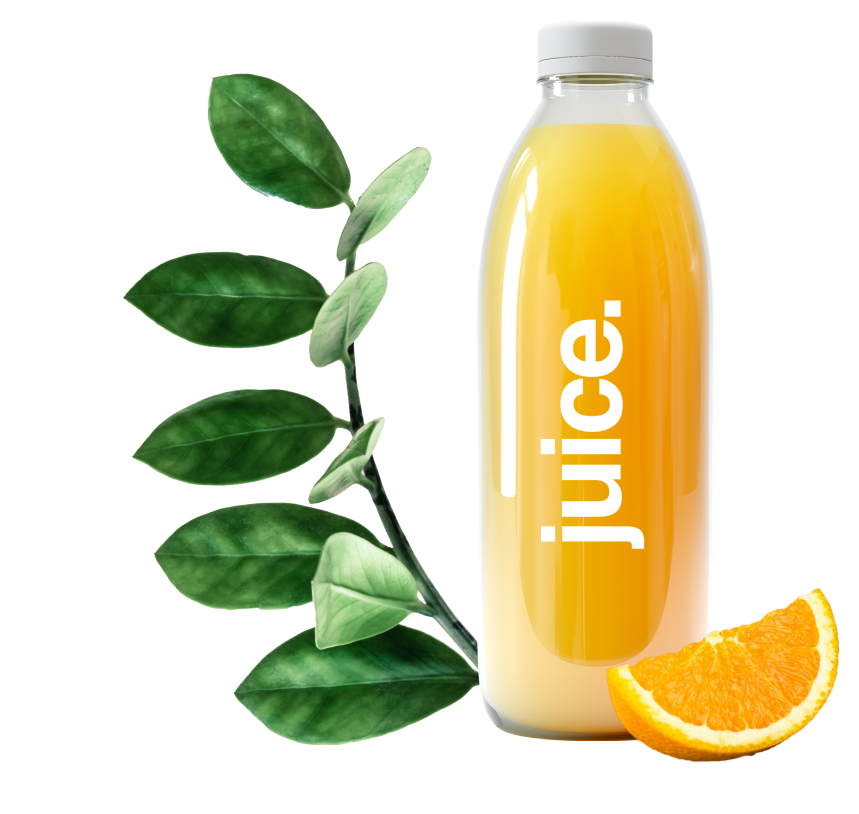
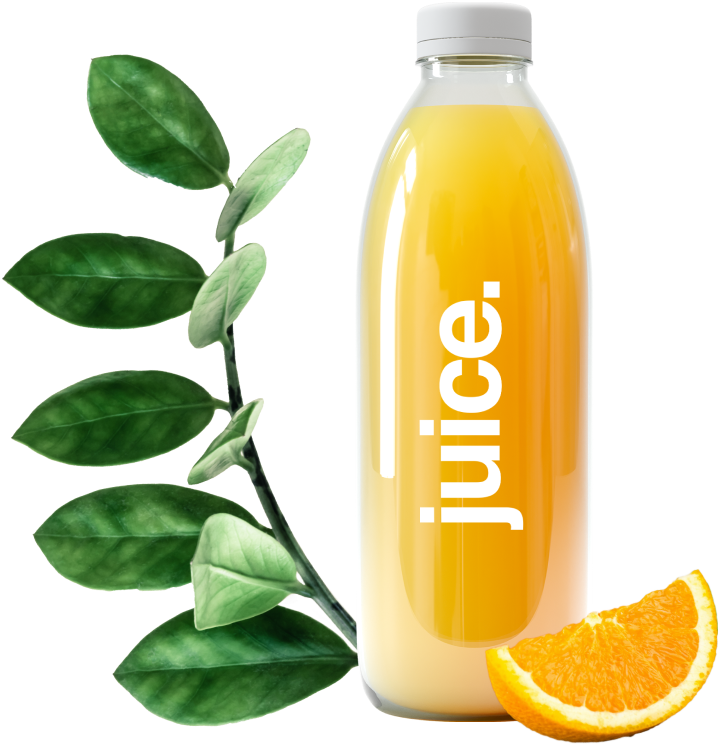
responsive view done

diff --git a/product.css b/product.css
@@ -1,18 +1,29 @@
+body {
+  overflow: visible;
+}
+
 main {
   width: 80%;
   margin: auto;
+  flex-wrap: wrap;
+  align-items: center;
+  justify-content: center;
+  min-height: 90vh;
+  overflow: visible;
 }
 
 .text-content {
   display: flex;
   flex-direction: column;
   justify-content: center;
+  flex: 1 1 30rem;
 }
 
 .text-content h1 {
   color: #eca64d;
   font-size: 4rem;
   font-weight: 500;
+  white-space: nowrap;
 }
 
 .text-content .description {
@@ -30,8 +41,8 @@ main {
 .btn-container {
   padding-top: 5rem;
   display: flex;
-  width: 25%;
-  justify-content: space-between;
+  width: 35%;
+  justify-content: space-around;
   align-items: center;
 }
 
@@ -49,16 +60,26 @@ main {
 }
 
 .img-container {
+  flex: 1 1 30rem;
   display: flex;
   justify-content: center;
   align-items: center;
+  text-align: center;
+  padding: 4rem;
 }
 
 .btn-container .back {
   white-space: nowrap;
 }
 
+.btn-container .back-img {
+  padding: 1rem;
+  min-width: 35%;
+  height: auto;
+}
+
 .product {
+  width: 100%;
   animation: product-landing 0.8s ease-in-out;
 }
 
@@ -70,5 +91,42 @@ main {
   to {
     opacity: 1;
     transform: translateY(0);
+  }
+}
+
+@media (max-width: 1199px) {
+  .text-content {
+    padding: 4rem 0;
+    align-items: center;
+  }
+
+  .text-content p {
+    text-align: center;
+  }
+}
+
+@media (max-width: 800px) {
+  .text-content h1 {
+    font-size: 3rem;
+  }
+
+  .text-content .description {
+    font-size: 1.2rem;
+  }
+
+  .text-content .contains {
+    font-size: 1rem;
+  }
+}
+
+@media (max-width: 700px) {
+  .btn-container {
+    width: 40%;
+  }
+}
+
+@media (max-width: 550px) {
+  .text-content h1 {
+    font-size: 2.5rem;
   }
 }

diff --git a/style.css b/style.css
@@ -101,7 +101,7 @@ main {
   padding: 0.2rem 1rem;
   border: 2px solid white;
   white-space: nowrap;
-  margin-left: 2rem;
+  margin: 0 1rem;
 }
 
 .button-section #red {
@@ -119,12 +119,92 @@ main {
 
 @media (max-width: 1680px) {
   .leaf {
-    z-index: 0;
+    width: 60%;
+    right: -7%;
   }
-  .container {
-    z-index: -2;
-  }
-  .button-section {
+  nav ul {
     z-index: 1;
+  }
+}
+
+@media (max-width: 930px) {
+  .container h1 {
+    font-size: 10rem;
+  }
+}
+
+@media (max-width: 740px) {
+  .container h1 {
+    font-size: 8rem;
+    padding: 1rem;
+  }
+
+  header {
+    margin-bottom: 2rem;
+  }
+
+  .container h2 {
+    font-size: 2rem;
+  }
+
+  .container a {
+    font-size: 1rem;
+  }
+}
+
+@media (max-width: 650px) {
+  .container h2 {
+    font-size: 1.8rem;
+  }
+
+  .container a {
+    font-size: 0.8rem;
+  }
+}
+
+@media (max-width: 580px) {
+  .button-section {
+    height: 20vh;
+    flex-direction: column;
+    align-items: center;
+    justify-content: space-around;
+  }
+
+  .button-section #red {
+    padding: 0.2rem 1.75rem;
+  }
+
+  .button-section #green {
+    padding: 0.2rem 1.2rem;
+  }
+
+  .menu {
+    width: 80%;
+  }
+
+  .leaf {
+    visibility: hidden;
+  }
+}
+
+@media (max-width: 500px) {
+  .container h1 {
+    font-size: 6rem;
+  }
+
+  .container h2 {
+    font-size: 1.5rem;
+  }
+}
+
+@media (max-width: 450px) {
+  html {
+    font-size: 90%;
+  }
+}
+
+@media (max-width: 350px) {
+  html {
+    font-size: 80%;
   }
 }

diff --git a/orange.html b/orange.html
@@ -22,13 +22,14 @@
       <main>
          <section class="text-content">
             <h1 class="orange">Orange Power</h1>
-            <p class="description">A bottle contains exactly what you need for a day of activities, a maximum amount of
+            <p class="description">A bottle contains exactly what you need for a day of activities, a maximum amount
+               of
                vitamin C for
                maximum energy.</p>
             <p class="contains">Contains: Fresh oranges and
                sugar free.</p>
             <div class="btn-container">
-               <img src="./img/Back.svg" alt="back">
+               <img src="./img/Back.svg" alt="back" class="back-img">
                <a href="./" class="back">Go back</a>
             </div>
          </section>

diff --git a/red.html b/red.html
@@ -28,8 +28,8 @@
             <p class="contains">Contains: Fresh strawberries and
                sugar free.</p>
             <div class="btn-container">
-               <img src="./img/Back.svg" alt="back">
-               <a href="./">Go back</a>
+               <img src="./img/Back.svg" alt="back" class="back-img">
+               <a href="./" class="back">Go back</a>
             </div>
          </section>
          <section class="img-container">

diff --git a/green.html b/green.html
@@ -28,8 +28,8 @@
             <p class="contains">Contains: Fresh kiwi and
                sugar free.</p>
             <div class="btn-container">
-               <img src="./img/Back.svg" alt="back">
-               <a href="./">Go back</a>
+               <img src="./img/Back.svg" alt="back" class="back-img">
+               <a href="./" class="back">Go back</a>
             </div>
          </section>
          <section class="img-container">
